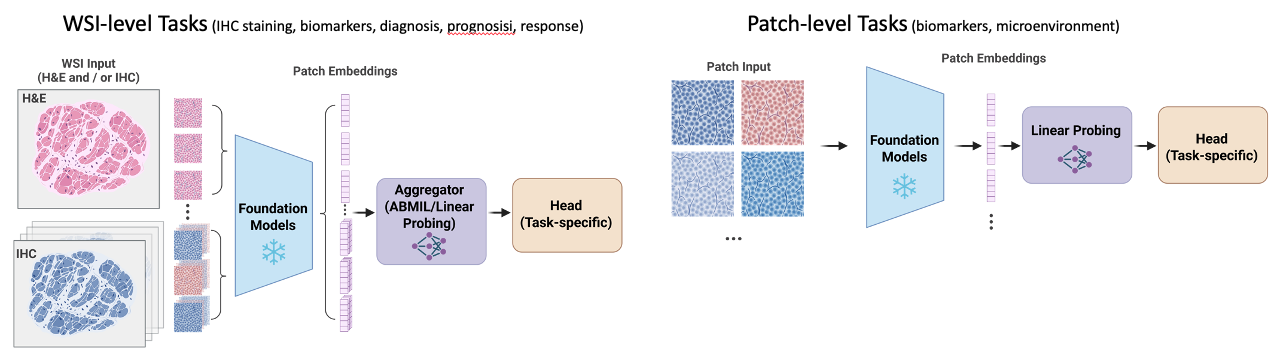
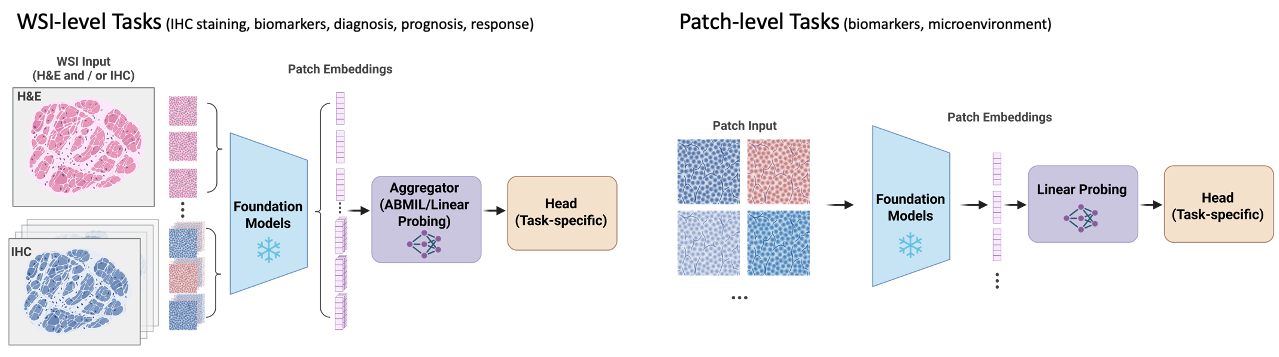
Initial commit

diff --git a/README.md b/README.md
@@ -184,20 +184,20 @@ Macro-averaged AUC ranking from the public leaderboard:
 
 | Rank | Foundation model | Macro-averaged AUC |
 | --- | --- | --- |
-| 1 | `Virchow2` | `0.953` |
-| 2 | `GPFM` | `0.952` |
-| 3 | `UNI` | `0.950` |
-| 4 | `Prov-GigaPath` | `0.948` |
-| 5 | `H-optimus-0` | `0.945` |
-| 6 | `Conch v1.5` | `0.945` |
-| 7 | `Conch` | `0.942` |
-| 8 | `Phikon` | `0.940` |
-| 9 | `CTransPath` | `0.939` |
-| 10 | `Virchow` | `0.935` |
-| 11 | `TITAN (WSI)` | `0.896` |
-| 12 | `MADELENE (WSI)` | `0.879` |
-| 13 | `CHIEF (WSI)` | `0.856` |
-| 14 | `Prov-GigaPath (WSI)` | `0.794` |
+| 1 | `Virchow2` | `0.876` |
+| 2 | `CONCH v1.5` | `0.869` |
+| 3 | `GPFM` | `0.869` |
+| 4 | `CONCH` | `0.869` |
+| 5 | `UNI` | `0.868` |
+| 6 | `GigaPath` | `0.866` |
+| 7 | `Phikon` | `0.862` |
+| 8 | `H-optimus-0` | `0.857` |
+| 9 | `CTransPath` | `0.854` |
+| 10 | `Virchow` | `0.851` |
+| 11 | `MADELEINE` | `0.820` |
+| 12 | `TITAN` | `0.819` |
+| 13 | `CHIEF` | `0.800` |
+| 14 | `Prov-GigaPath` | `0.745` |
 
 ### Prognosis Snapshot
 
@@ -205,20 +205,20 @@ Macro-averaged C-index ranking from the public leaderboard:
 
 | Rank | Foundation model | Macro-averaged C-index |
 | --- | --- | --- |
-| 1 | `Virchow2` | `0.591` |
-| 2 | `TITAN (WSI)` | `0.584` |
-| 3 | `Virchow` | `0.579` |
-| 4 | `CTransPath` | `0.573` |
-| 5 | `GPFM` | `0.572` |
-| 6 | `H-optimus-0` | `0.569` |
-| 7 | `Prov-GigaPath` | `0.568` |
-| 8 | `MADELENE (WSI)` | `0.568` |
-| 9 | `CHIEF (WSI)` | `0.567` |
-| 10 | `Phikon` | `0.563` |
-| 11 | `Conch` | `0.562` |
-| 12 | `Conch v1.5` | `0.555` |
-| 13 | `UNI` | `0.551` |
-| 14 | `Prov-GigaPath (WSI)` | `0.541` |
+| 1 | `GigaPath` | `0.545` |
+| 2 | `Phikon` | `0.542` |
+| 3 | `UNI` | `0.534` |
+| 4 | `GPFM` | `0.531` |
+| 5 | `TITAN` | `0.530` |
+| 6 | `Virchow2` | `0.528` |
+| 7 | `MADELEINE` | `0.526` |
+| 8 | `CHIEF` | `0.525` |
+| 9 | `H-optimus-0` | `0.517` |
+| 10 | `Prov-GigaPath` | `0.513` |
+| 11 | `CONCH` | `0.509` |
+| 12 | `CTransPath` | `0.507` |
+| 13 | `CONCH v1.5` | `0.506` |
+| 14 | `Virchow` | `0.505` |
 
 
 ## Available Backbones
